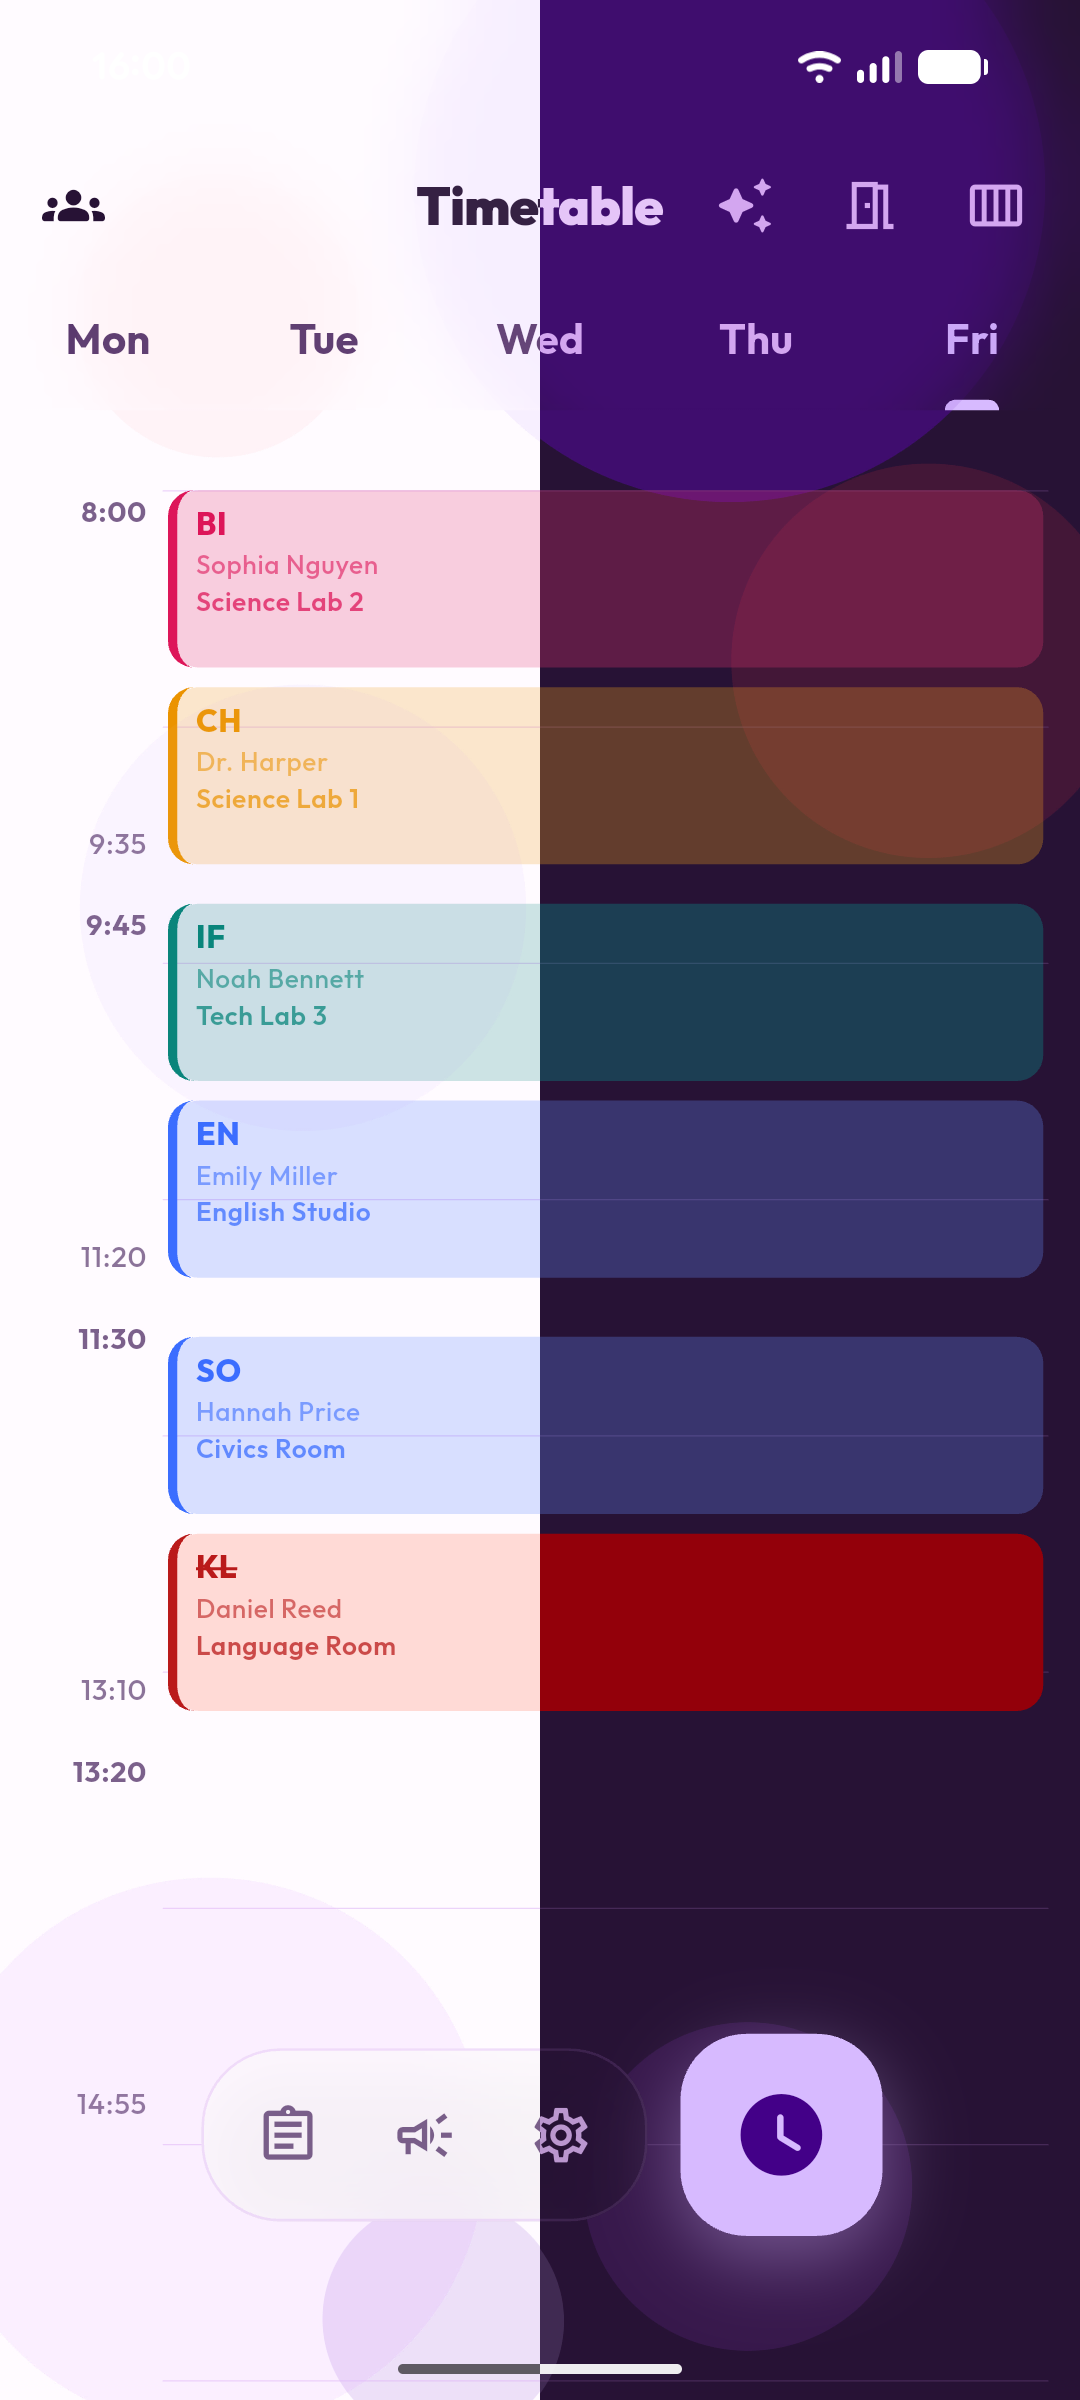
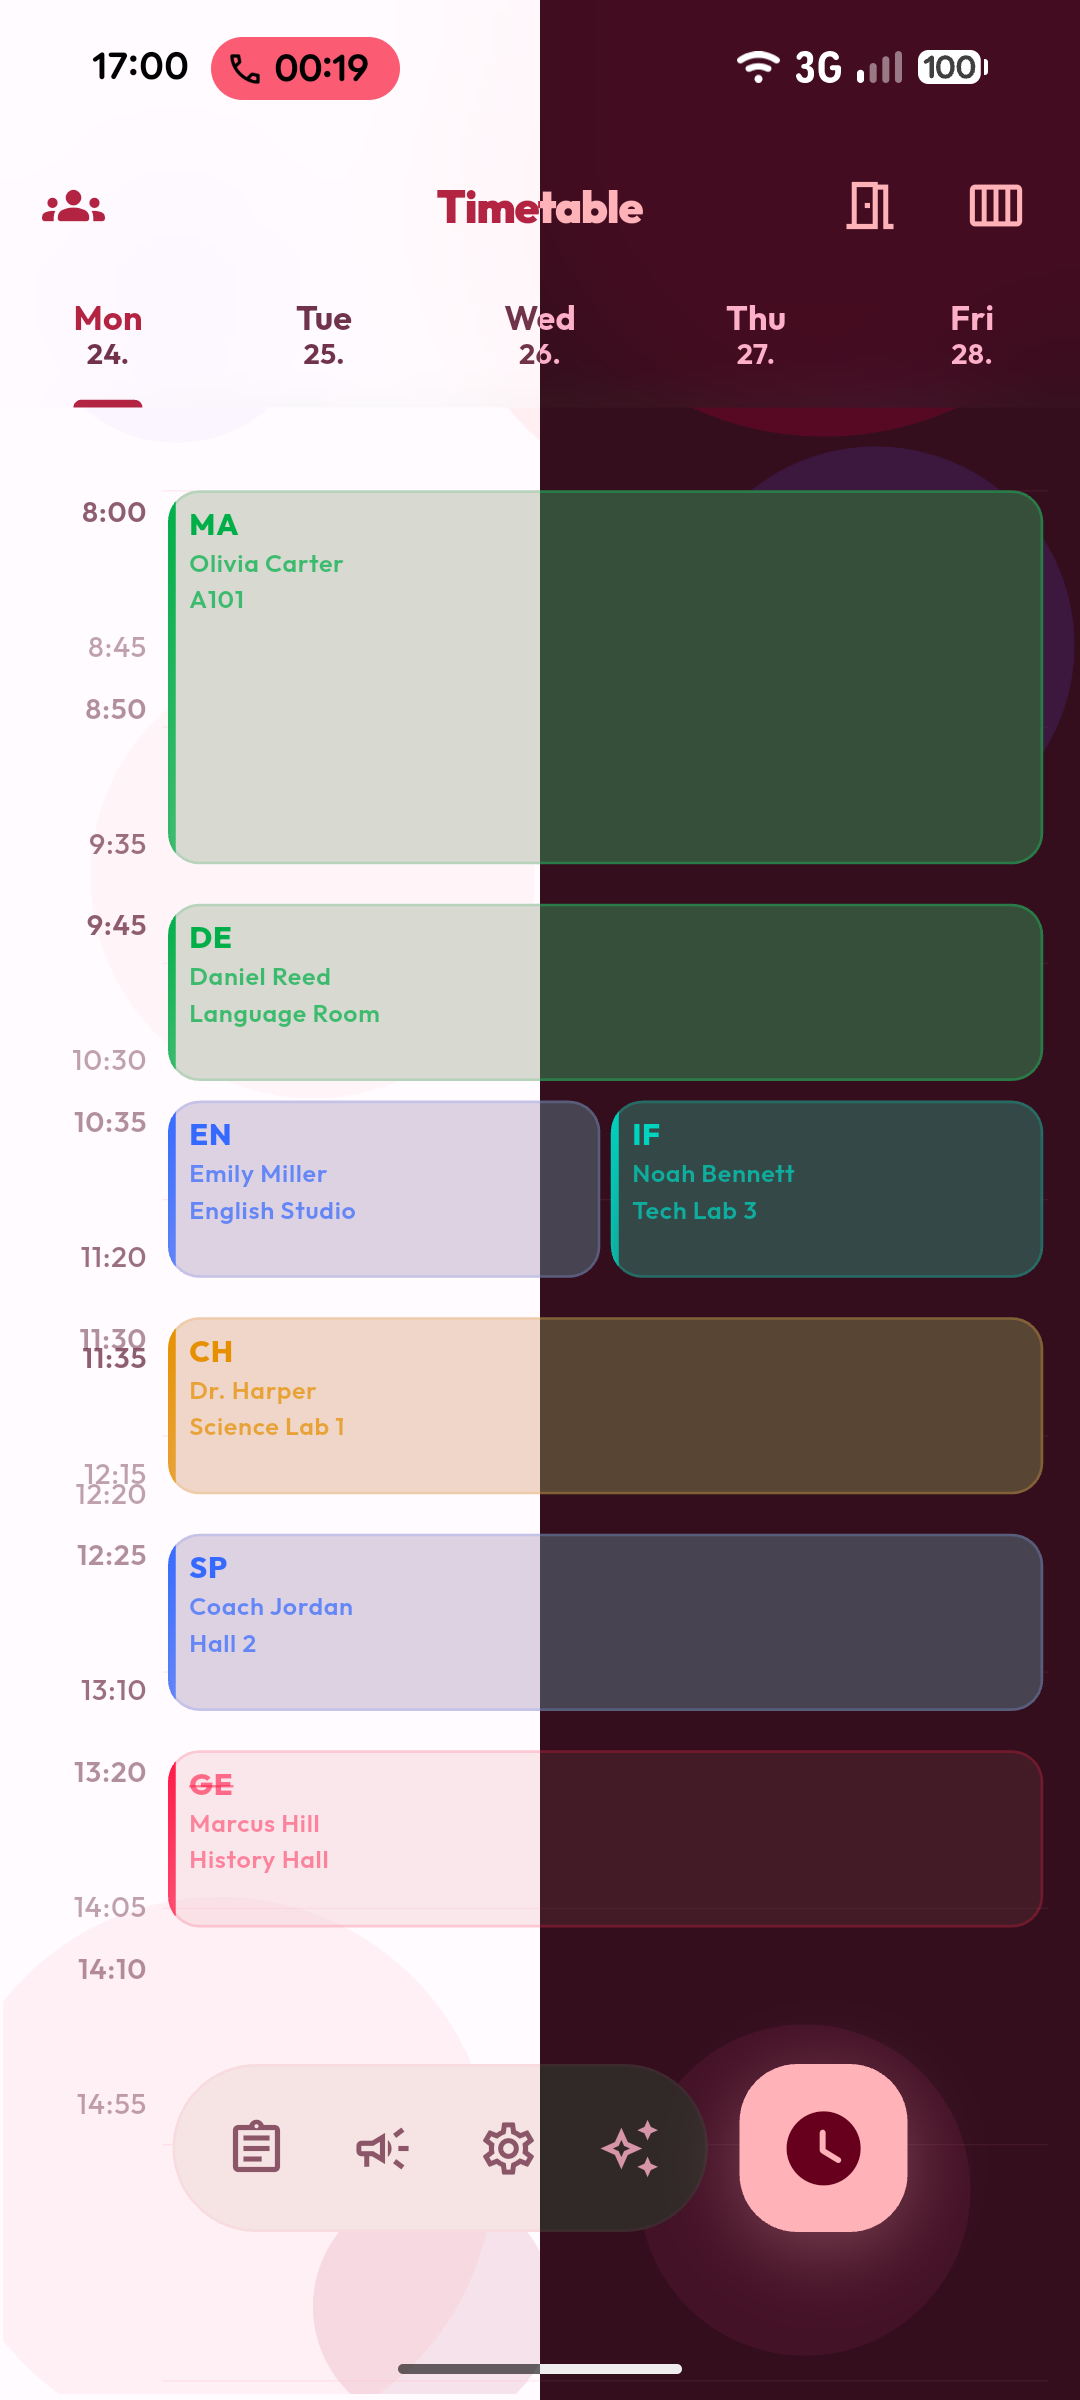
Updated the Readme!

diff --git a/README.md b/README.md
@@ -9,52 +9,55 @@
 </p>
 
 <p align="center">
-  <img src="https://img.shields.io/github/stars/ninocss/UntisPlus?style=for-the-badge&logo=github&color=3182ce" alt="GitHub stars">
-  <img src="https://img.shields.io/github/forks/ninocss/UntisPlus?style=for-the-badge&logo=github&color=3182ce" alt="GitHub forks">
-  <img src="https://img.shields.io/github/issues/ninocss/UntisPlus?style=for-the-badge&logo=github&color=e53e3e" alt="GitHub issues">
+  <img src="https://img.shields.io/github/stars/ninocss/untisplus?style=for-the-badge&logo=github&color=3182ce" alt="GitHub stars">
+  <img src="https://img.shields.io/github/forks/ninocss/untisplus?style=for-the-badge&logo=github&color=3182ce" alt="GitHub forks">
+  <img src="https://img.shields.io/github/issues/ninocss/untisplus?style=for-the-badge&logo=github&color=e53e3e" alt="GitHub issues">
   <img src="https://img.shields.io/badge/Flutter-02569B?style=for-the-badge&logo=flutter&logoColor=white" alt="Flutter">
 </p>
 
 ---
 
-## ⚡ Overview
+## Overview
+
+UntisPlus is a modern, secure, and intuitive Flutter client for students and teachers to manage school schedules, tasks, and communications. Built with privacy as the default: all authentication details, credentials, and schedule data stay strictly on your local device — nothing is ever shared with central servers.
 
 | Aspect | Specification |
 | :--- | :--- |
-| **Description** | A modern, secure, and intuitive Flutter client for students and teachers to manage school schedules, tasks, and communications without central data exposure. |
-| **Data Policy** | Private by default. All authentication details, credentials, and schedule data remain strictly on the local device. |
+| **Data Policy** | Private by default. Credentials and schedule data never leave your device. |
 | **Current Version** | `5.0.0` |
 | **Target Platforms** | Android |
 
 ---
 
-## ✨ Features
+## Features
 
-* **Advanced Timetable:** Fast, fluid, and optimized navigation for daily and weekly class schedules.
-* **Exam & Info Tracker:** Consolidated overview of upcoming exams and direct broadcast announcements from your school.
-* **Smart Utilities:** Built-in free room finder and home screen widgets for immediate status checks.
-* **Local Intelligence:** Seamless integration with on-device assistive AI features to manage workflows privately.
-
----
-
-## 📸 Screenshots
-
-| Onboarding | Timetable | Lesson Details |
-| :---: | :---: | :---: |
-| <img src="assets/github/welcome.png" width="240" alt="Onboarding" /> | <img src="assets/github/timetable.png" width="240" alt="Timetable" /> | <img src="assets/github/details.png" width="240" alt="Lesson details" /> |
-
-| Exams | School Info | Settings |
-| :---: | :---: | :---: |
-| <img src="assets/github/exams.png" width="240" alt="Exams" /> | <img src="assets/github/school%20info.png" width="240" alt="School info" /> | <img src="assets/github/settings.png" width="240" alt="Settings" /> |
+* **Advanced Timetable** — Fast, fluid, and optimized navigation for daily and weekly class schedules.
+* **Exam & Info Tracker** — Consolidated overview of upcoming exams and direct broadcast announcements from your school.
+* **Homework & Lesson Notes** — Seamless integration of homework and notes straight from WebUntis.
+* **Smart Utilities** — Built-in free room finder and home screen widgets for immediate status checks.
+* **Local Intelligence** — On-device assistive AI features that manage workflows privately, without sending data to the cloud.
 
 ---
 
-## 🗺 Roadmap
+## Screenshots
+
+| Welcome | Timetable | Lesson Details |
+| :---: | :---: | :---: |
+| <img src="assets/github/Welcome.png" width="240" alt="Welcome" /> | <img src="assets/github/Timetable.png" width="240" alt="Timetable" /> | <img src="assets/github/lesson_inspect.png" width="240" alt="Lesson details" /> |
+
+| AI Assistant | Appearance | Ready to Go |
+| :---: | :---: | :---: |
+| <img src="assets/github/AI_assistant.png" width="240" alt="AI assistant" /> | <img src="assets/github/Appearance.png" width="240" alt="Appearance settings" /> | <img src="assets/github/Ready_to_go.png" width="240" alt="Ready to go" /> |
+
+---
+
+## Roadmap
 
 | Feature / Goal | Status |
 | :--- | :---: |
 | UI Refactor (Modernized aesthetics and enhanced user experience) | Done |
 | Streamlined Onboarding Flow | Done |
+| Homework & Lesson Notes Integration | Done |
 | Multi-Account / Multi-School Support | Planned |
 | Dynamic Lockscreen & Next-Lesson Widgets | Planned |
 | Native Offline/Local AI Model Integration | Planned |
@@ -62,7 +65,7 @@
 
 ---
 
-## 🛠 Tech Stack & Key Dependencies
+## Tech Stack & Key Dependencies
 
 | Dependency | Purpose |
 | :--- | :--- |
@@ -74,12 +77,12 @@
 
 ---
 
-## 📦 Project Structure
+## Project Structure
 
+```
 .
 ├── assets/                    # Graphic elements and app icons
 ├── lib/
-
 │   ├── app/                   # Central application routing configuration
 │   ├── core/                  # State engines, themes, and time utilities
 │   ├── screens/               # System views, settings hub, and setup guides
@@ -87,23 +90,24 @@
 │   ├── web/                   # Web-specific platform adaptions
 │   └── widgets/               # Reusable UI elements and background filters
 └── pubspec.yaml               # Package definitions and metadata
-
+```
 
 ---
 
-## 🚀 Development Setup
+## Development Setup
 
 ### System Prerequisites
+
 Ensure the Flutter SDK is installed and configured in your environment variable path.
 
 ### Execution
 
 ```bash
 # Clone the codebase
-git clone [https://github.com/ninocss/UntisPlus.git](https://github.com/ninocss/UntisPlus.git)
+git clone https://github.com/ninocss/untisplus.git
 
 # Navigate into the project folder
-cd UntisPlus
+cd untisplus
 
 # Resolve project dependencies
 flutter pub get
@@ -112,21 +116,21 @@ flutter pub get
 flutter run
 ```
 
-👥 Contributing
+---
 
-Fork the repository.
+## Contributing
 
-Clone your fork: git clone https://github.com/your-username/UntisPlus.git
+1. Fork the repository.
+2. Clone your fork: `git clone https://github.com/your-username/untisplus.git`
+3. Create a feature branch: `git checkout -b feature/your-feature`
+4. Commit changes with clear messages: `git commit -am 'Add explicit feature description'`
+5. Push to the branch: `git push origin feature/your-feature`
+6. Open a Pull Request against the `main` branch.
 
-Create a feature branch: git checkout -b feature/your-feature
+Please give credits to UntisPlus (or your forked repo) in your work! ❤
 
-Commit changes using clear messages: git commit -am 'Add explicit feature description'
+---
 
-Push to the branch: git push origin feature/your-feature
+## Disclaimer
 
-Open a Pull Request against the main branch.
-
-But please give Credits to UntisPlus or your forked repo! ❤
-
-⚠ Disclaimer
 UntisPlus is an independent developer project. It is not affiliated, associated, authorized, endorsed by, or in any way officially connected with WebUntis or any of its subsidiaries or affiliates.
